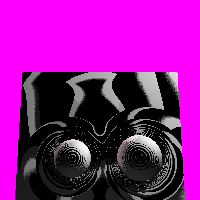
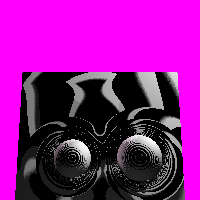
Increase rays per pixel for improved rendering quality and remove redundant up vector check in shading algorithm

diff --git a/py_src/src/Raytracing.py b/py_src/src/Raytracing.py
@@ -268,8 +268,6 @@ class BasicLambertShading(ShadingStrategy):
 
         # build orthonormal basis around normal
         up = np.array([0.0, 1.0, 0.0])
-        if abs(np.dot(normal, up)) > 0.999:
-            up = np.array([1.0, 0.0, 0.0])
         tangent = np.cross(up, normal)
         tangent = tangent / np.linalg.norm(tangent)
         bitangent = np.cross(normal, tangent)

diff --git a/py_src/main.py b/py_src/main.py
@@ -223,7 +223,7 @@ if __name__ == "__main__":
         get_lit_studio_scene(200, 200),
     ]
 
-    rpp = 1  # rays per pixel
+    rpp = 4  # rays per pixel
     spp = 1  # samples per pixel
     raytracer = Raytracer(rays_per_pixel=rpp)
     sampler = RandomSampler(samples_per_pixel=spp)
